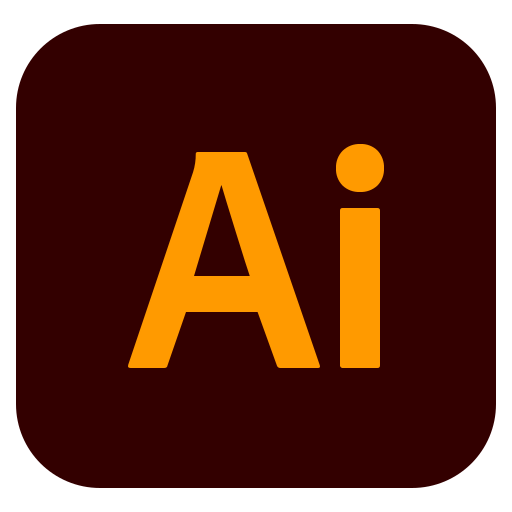
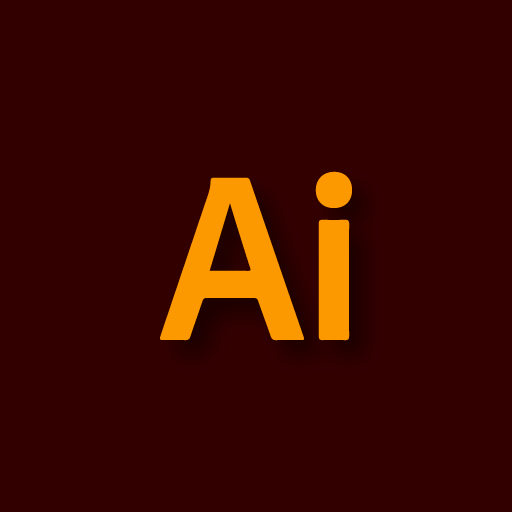
Cambio de iconos

Changed region(s): [[0.0, 0.0, 1.0, 1.0], [0.25, 0.2812, 0.75, 0.7188]]

diff --git a/index.html b/index.html
@@ -37,13 +37,13 @@
             <h2 class="Sub-tittle">About me</h2>
         </div>
         <div class="section-home1-right">
-            <h3 class="Sub-Subtittle">I love to invest time to learn </h3>
-            <p class="Text-paragraph">My interest are focus to programming, electronics, read and music.<br>
-            I like the philosophy and the importance of good living, i&#39m triying to reach the absolute best of what i&#39m capable of. </p>
+            <h3 class="Sub-Subtittle">I love to invest time on learning </h3>
+            <p class="Text-paragraph">My interest are focused on programming, electronics, reading and music.<br>
+            I like philosophy and the importance of good living, I&#39m triying to reach the absolute best of what I&#39m capable of. </p>
 
-            <h3 class="Sub-Subtittle">if there is something new... </h3>
-            <p class="Text-paragraph">when I began this path I was a little lost there was a many languages and many frameworks and many more questions  like “how?” <br>
-            for a time ago to now i&#39m happy to focus in programming and avery day i triying to learn something new or practice the knowledge acquired.<br>
+            <h3 class="Sub-Subtittle">If there is something new... </h3>
+            <p class="Text-paragraph">When I began this path I was a little lost were was a many languages and many frameworks and many more questions  like “how?” <br>
+            For some time to now I&#39m happy to focus on programming and every day I try to learn something new or practice the knowledge acquired.<br>
             I just don&#39t wanna stop. </p>
         </div>
     </section>
@@ -76,6 +76,11 @@
                 <div class="carousel-element">
                     <img class="icon-programs" src="./assets/git.png" alt="Git">
                     <p>Git</p>
+                </div>
+
+                <div class="carousel-element">
+                    <img class="icon-programs" src="./assets/sass.png" alt="Illustrator">
+                    <p>Illustrator</p>
                 </div>
 
                 <div class="carousel-element">

diff --git a/styles.css b/styles.css
@@ -129,7 +129,7 @@ body::-webkit-scrollbar-thumb {
 .Sub-Subtittle {
     font-size: 2.4rem;
     letter-spacing: -15%;
-    font-weight: 400;
+    font-weight: 500;
     padding-bottom: 18px;
 }
 .Text-paragraph {
@@ -152,6 +152,10 @@ body::-webkit-scrollbar-thumb {
 }
 .carousel{
     position: relative;
+}
+
+.icon-programs {
+    border-radius: 15px;
 }
 
 /* caruosel arrows  */

diff --git a/stylemobi.css b/stylemobi.css
@@ -40,7 +40,7 @@
     }
 
     .Sub-Subtittle {
-        font-size: 1.8rem;
+        font-size: 2rem;
     }
 
     /* hero */
